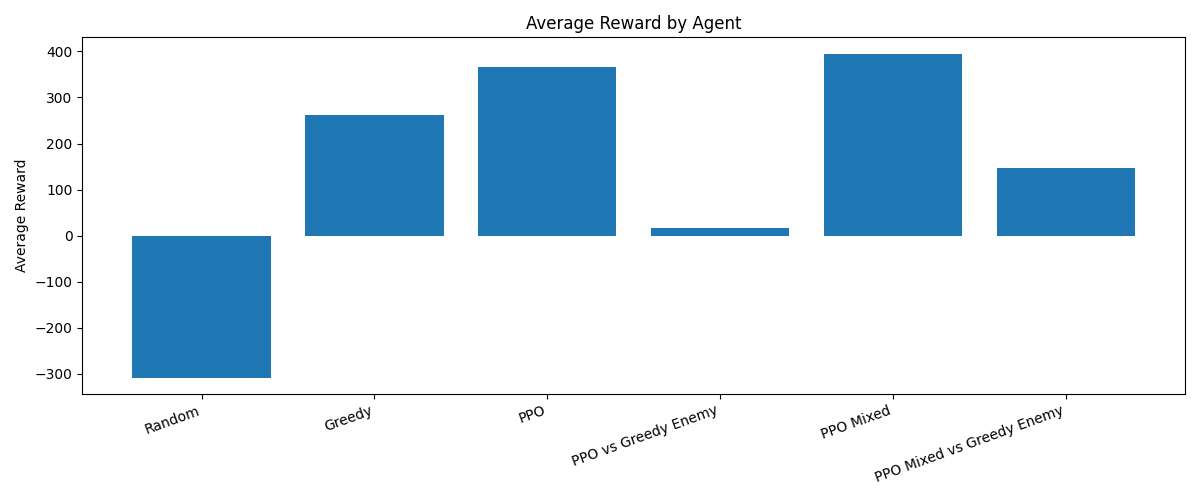
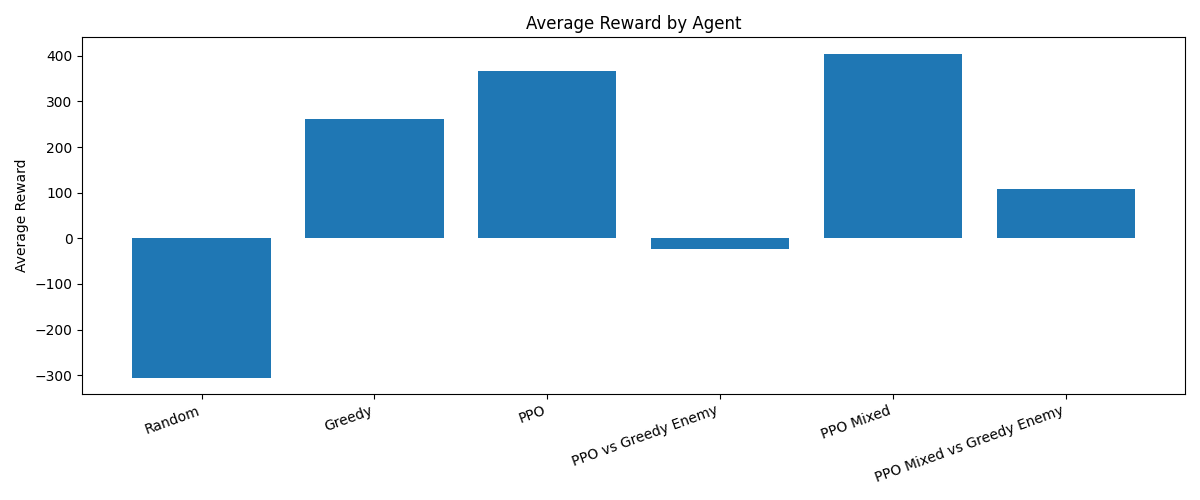
final

diff --git a/src/train.py b/src/train.py
@@ -4,7 +4,8 @@ os.environ["KMP_DUPLICATE_LIB_OK"] = "TRUE"
 import numpy as np
 import matplotlib.pyplot as plt
 
-from stable_baselines3 import PPO
+from sb3_contrib import MaskablePPO
+from sb3_contrib.common.maskable.utils import get_action_masks
 from stable_baselines3.common.env_checker import check_env
 from stable_baselines3.common.callbacks import BaseCallback
 
@@ -13,8 +14,8 @@ from env import MiniRiskEnv
 
 class RewardCurveCallback(BaseCallback):
     """
-    Evaluates the unmasked PPO model during training and saves
-    average reward values for a comparison learning curve.
+    Periodically evaluates the current model during training and saves
+    average reward values so we can plot a learning curve.
     """
 
     def __init__(self, eval_freq=5_000, n_eval_episodes=20, verbose=1):
@@ -27,6 +28,7 @@ class RewardCurveCallback(BaseCallback):
     def _on_step(self) -> bool:
         if self.num_timesteps % self.eval_freq == 0:
             avg_reward = self.evaluate_model()
+
             self.timesteps.append(self.num_timesteps)
             self.avg_rewards.append(avg_reward)
 
@@ -49,14 +51,16 @@ class RewardCurveCallback(BaseCallback):
             total_reward = 0
 
             while not done:
-                # IMPORTANT:
-                # No action masks are used here.
+                action_masks = get_action_masks(env)
+
                 action, _ = self.model.predict(
                     obs,
                     deterministic=True,
+                    action_masks=action_masks,
                 )
 
                 obs, reward, terminated, truncated, info = env.step(action)
+
                 total_reward += reward
                 done = terminated or truncated
 
@@ -64,10 +68,10 @@ class RewardCurveCallback(BaseCallback):
 
         return np.mean(rewards)
 
-    def save_reward_curve(self, filename="training_reward_curve_unmasked.png"):
+    def save_reward_curve(self, filename="training_reward_curve.png"):
         plt.figure(figsize=(8, 5))
         plt.plot(self.timesteps, self.avg_rewards, marker="o")
-        plt.title("Unmasked PPO Learning Curve on MiniRiskEnv")
+        plt.title("PPO Learning Curve on MiniRiskEnv")
         plt.xlabel("Training Timesteps")
         plt.ylabel("Average Evaluation Reward")
         plt.grid(True)
@@ -89,7 +93,7 @@ def train_model():
 
     env = MiniRiskEnv()
 
-    model = PPO(
+    model = MaskablePPO(
         "MlpPolicy",
         env,
         verbose=1,
@@ -108,20 +112,20 @@ def train_model():
     )
 
     model.learn(
-        total_timesteps=200_000,
+        total_timesteps=100_000,
         callback=reward_callback,
     )
 
-    model.save("ppo_minirisk_unmasked")
-    reward_callback.save_reward_curve("training_reward_curve_unmasked.png")
+    model.save("models/ppo_minirisk")
+    reward_callback.save_reward_curve("training_reward_curve.png")
 
-    print("Training complete. Model saved as ppo_minirisk_unmasked.zip")
-    print("Learning curve saved as training_reward_curve_unmasked.png")
+    print("Training complete. Model saved as ppo_minirisk.zip")
+    print("Learning curve saved as training_reward_curve.png")
 
 
 def test_model():
     env = MiniRiskEnv()
-    model = PPO.load("ppo_minirisk_unmasked")
+    model = MaskablePPO.load("models/ppo_minirisk")
 
     obs, _ = env.reset()
     done = False
@@ -129,16 +133,16 @@ def test_model():
     turns = 0
     final_info = {}
 
-    print("\nTesting trained UNMASKED PPO agent...")
+    print("\nTesting trained Maskable PPO agent...")
 
     while not done:
         env.render()
 
-        # IMPORTANT:
-        # No masking here, so the model can select invalid actions.
+        action_masks = get_action_masks(env)
         action, _ = model.predict(
             obs,
             deterministic=True,
+            action_masks=action_masks,
         )
 
         obs, reward, terminated, truncated, info = env.step(action)
@@ -161,7 +165,7 @@ def test_model():
 
     env.render()
 
-    print("\nUnmasked PPO test complete.")
+    print("\nMaskable PPO test complete.")
     print(f"Total Reward: {total_reward:.2f}")
     print(f"Turns: {turns}")
 

diff --git a/src/env.py b/src/env.py
@@ -24,7 +24,7 @@ INVALID_ATTACK_PENALTY = -2.0
 
 # Strategic objectives
 NEW_PLAYER_CONTINENT_REWARD = 5.0
-NEW_ENEMY_CONTINENT_PENALTY = -5.0
+NEW_ENEMY_CONTINENT_PENALTY = -5.0  
 
 
 ENEMY_SUCCESSFUL_ATTACK_PENALTY = -2.0
@@ -148,10 +148,6 @@ class MiniRiskEnv(gym.Env):
             attack_mask[i + 1] = legal_attack
 
         return np.concatenate([reinforce_mask, attack_mask])
-
-    # --------------------------------------------------
-    # CORE ENVIRONMENT HELPERS
-    # --------------------------------------------------
 
     def _get_obs(self):
         return np.concatenate([self.owners, self.troops]).astype(np.int32)
